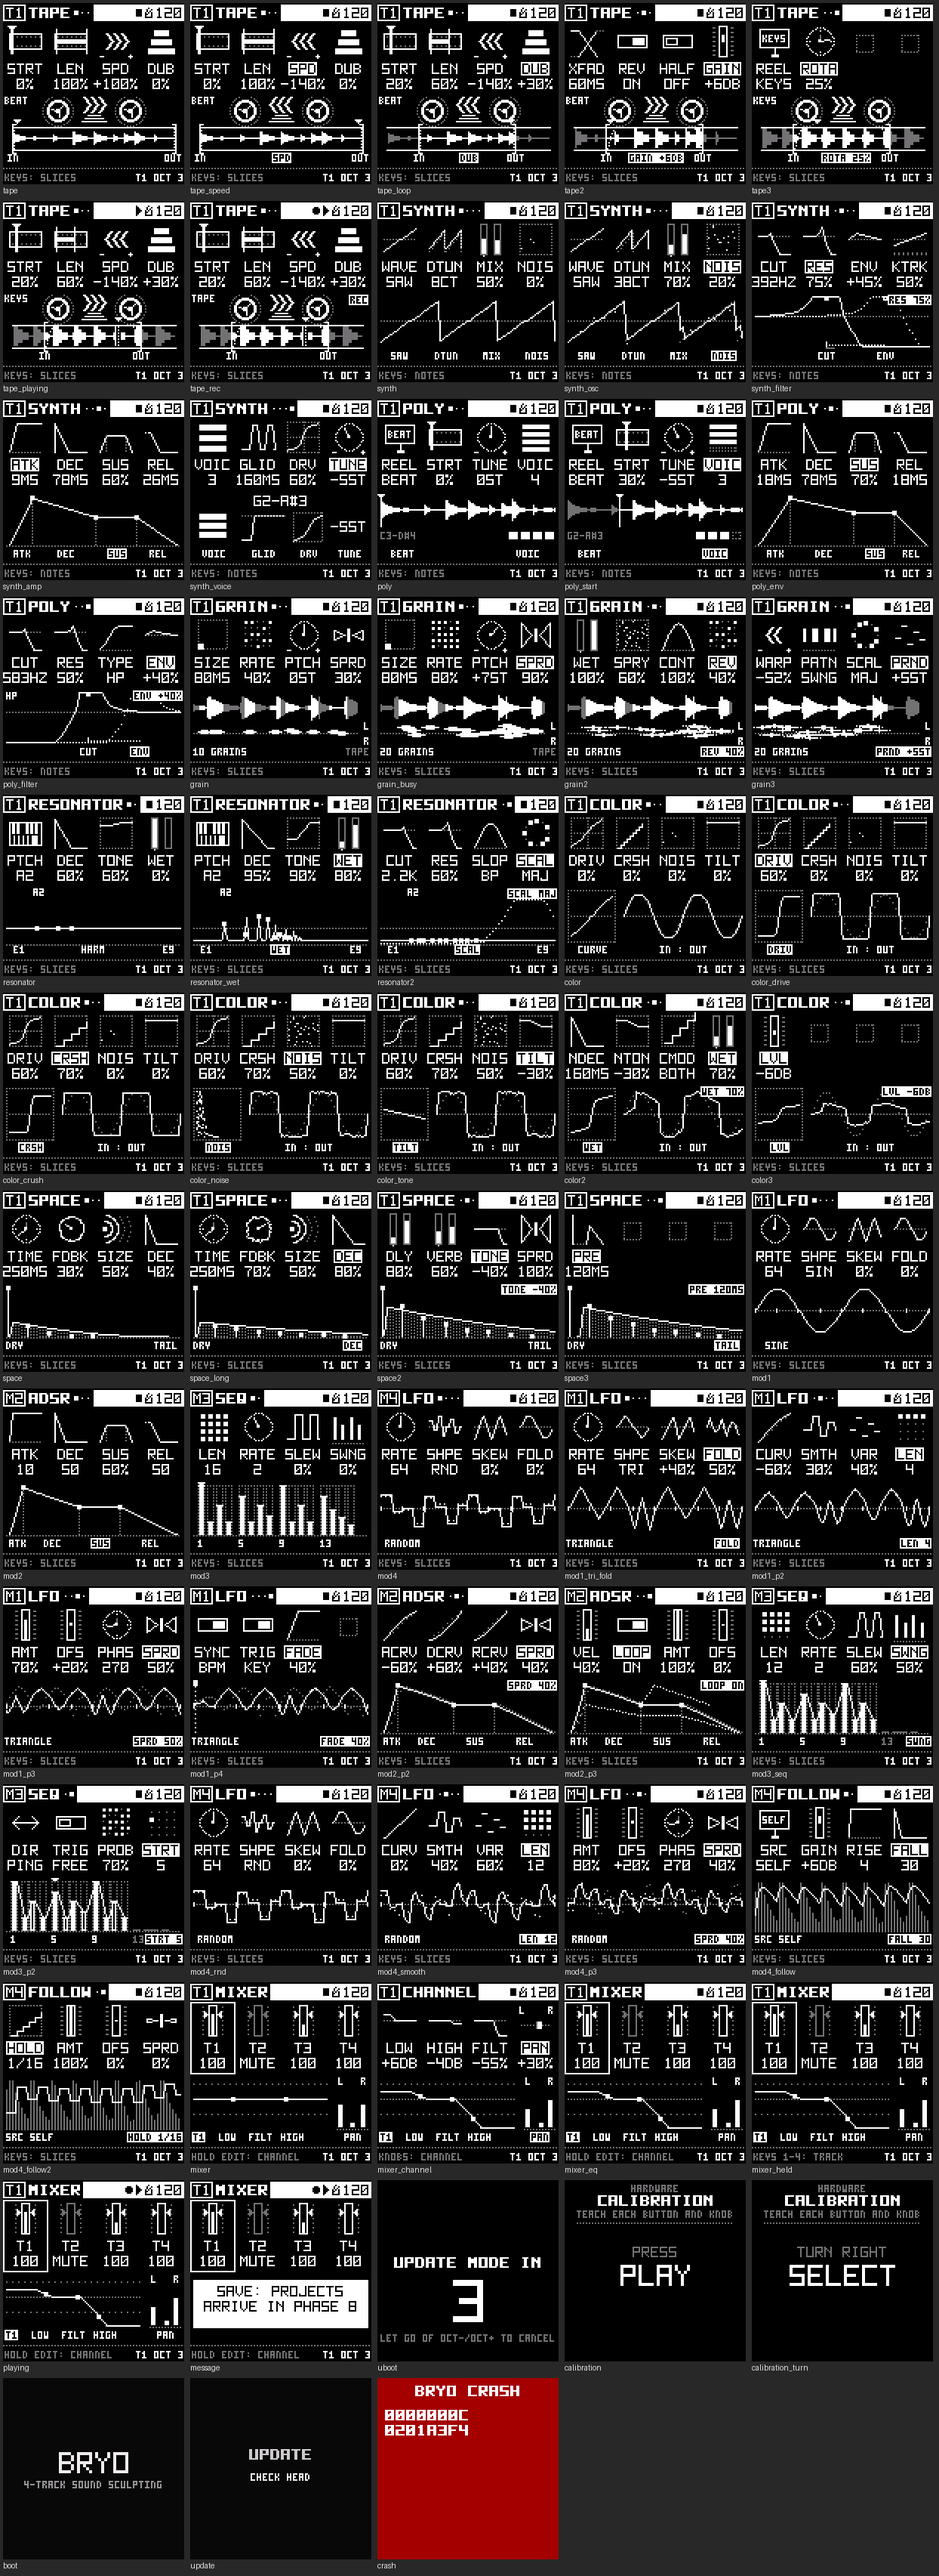
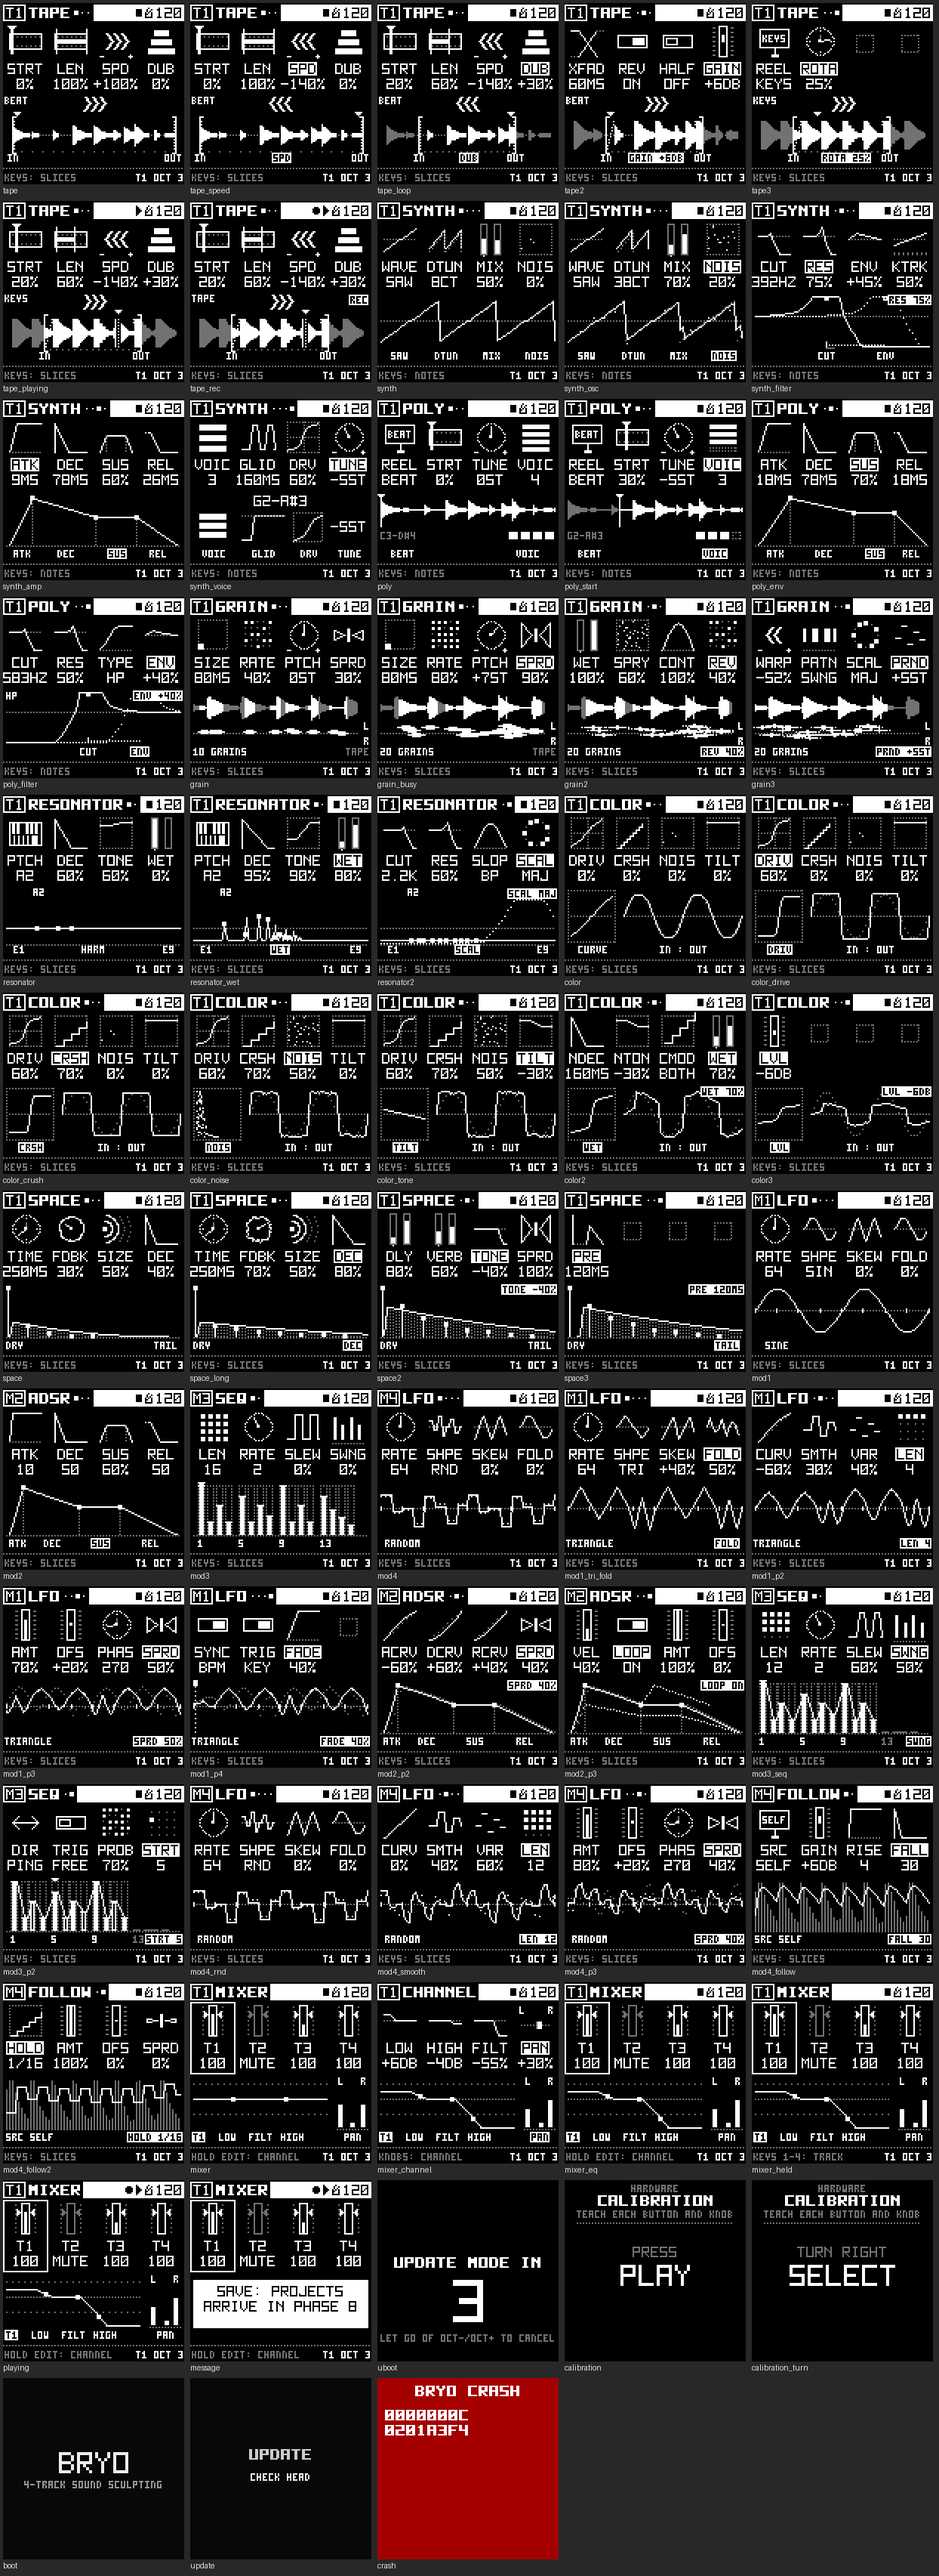
Bryo: TAPE's picture without the reels, the sound larger
The reels are gone; the sound takes their rows (about 70 % taller), each dot
column the loudest block under it, lit inside the loop window with its 16
slices ticked under it. Brackets, XFAD, playhead, ROTA's start, the name,
REC and SPD's chevrons stay where they were; DUB's layers left the picture
(the strip's pictogram shows it).

Claude-Session: https://claude.ai/code/session_011E3mkWDTWqtPtt4Lk7Lgg8

diff --git a/bryo/firmware/src/ui_viz.c b/bryo/firmware/src/ui_viz.c
@@ -9,10 +9,9 @@
  *
  *   SYNTH      per page: the oscillators' cycles, the filter's response, the envelope, the keys and voices
  *   POLY       per page: the sound with STRT and the keys' range, the envelope, the filter with its TYPE
- *   TAPE       a reel-to-reel, reels close over the middle: the run along the bottom is the whole tape with the
- *              sample on it, lit inside the loop window (STRT, LEN, bracketed); the playhead over it (stopped: where
- *              playing starts, moved by ROTA); between the reels SPD as chevrons and DUB as the layers kept (the old
- *              take under, the new on top)
+ *   TAPE       the whole tape's sound, large, lit inside the loop window (STRT, LEN, bracketed) with its 16 slices
+ *              ticked under it; the playhead over it (stopped: where playing starts, moved by ROTA); SPD as chevrons
+ *              at the top
  *   GRAIN      the sound in TAPE's loop window, lit where grains read it (SIZE, scaled by PITCH), and one solid
  *              block per grain (RATE, placed by PATN) in a stereo lane under it (SPRD, up = left, down = right)
  *   RESONATOR  the response over 8 octaves: peaks on PTCH's partials (harmonics, or a scale's chord tones; a node on
@@ -97,39 +96,35 @@ static void vz_poly(const int32_t *xs, const int32_t *ys, int32_t n, uint16_t c,
 }
 
 /* -------------------------------------------------------------- TAPE --- */
-/* a reel: its flange (dotted), the tape wound on it (solid), the hub and three spokes */
-static void vz_reel(int32_t cx, int32_t cy)
-{
-    int32_t k;
-    px_ring(cx, cy, 10, px_dim, 2);
-    px_ring(cx, cy, 7, px_ink, 1);
-    px_ring(cx, cy, 6, px_ink, 1);
-    px_box(cx - 1, cy - 1, 3, 3, px_ink);
-    for (k = 0; k < 3; k++)
-        px_line(px_px(cx, 2, 8 + k * 21), px_py(cy, 2, 8 + k * 21), px_px(cx, 4, 8 + k * 21), px_py(cy, 4, 8 + k * 21), px_ink, 1);
-}
-
 static void viz_tape(const int16_t *v, uint32_t f)
 {
-    /* A reel-to-reel, the reels close in over the middle the way a deck's are, and under them the tape's run: the
-     * whole of what the track plays (its tape or a reel, named at the top left), its sound drawn on it from the
-     * blocks' peaks: lit inside the loop window (STRT, LEN, bracketed), dim outside. The playhead is where the head
-     * is while it runs (a dotted line through the run), else where playing starts (the end when reversed); between
-     * the reels, SPD as chevrons and DUB as the layers kept; REC armed is tagged at the top right. */
-    int32_t r0 = 6, r1 = 114, rw = r1 - r0, top = 20, bot = 35, mid = 27, k, x;
-    int32_t x0 = r0 + v[0] * rw / 100, x1 = x0 + v[1] * rw / 100, keep = v[3] >= 0 ? 100 : 100 + v[3];
+    /* The whole of what the track plays (its tape or a reel, named at the top left), its sound drawn large from the
+     * blocks' peaks (each dot column the loudest block under it, so no hit falls between columns): lit inside the
+     * loop window (STRT, LEN, bracketed), dim outside, with the 16 slices the white keys play ticked under it. The
+     * playhead is where the head is while it runs (a dotted cut through the sound), else where playing starts
+     * (ROTA's point; the end when reversed); SPD as chevrons at the top; REC armed tagged at the top right. */
+    int32_t r0 = 6, r1 = 114, rw = r1 - r0, top = 15, bot = 35, mid = 25, amp = 9, k, x;
+    int32_t x0 = r0 + v[0] * rw / 100, x1 = x0 + v[1] * rw / 100;
     int32_t sp = v[2] * (v[5] ? -1 : 1) / (v[6] ? 2 : 1), gain = db_x1000(v[7]);   /* REV, HALF; GAIN */
     int32_t fw = 1 + v[4] * 8 / 100;                   /* XFAD (drawn wider than to scale, so it shows) */
+    tape_view_t tv;
+    uint32_t nb;
     if (x1 > r1)
         x1 = r1;
-    vz_reel(36, 9);
-    vz_reel(84, 9);
-    px_line(r0, top, r1, top, px_ink, 1);                             /* the run's edges */
-    px_line(r0, bot, r1, bot, px_ink, 1);
-    for (x = r0 + 1; x < r1; x++) {                                    /* the sample (phase 2: the take) */
-        int32_t a = clamp(tape_peak_at(sys.sel, (x - r0) * 1000 / rw) * 6 / 1000 * gain / 1000, 0, 6);   /* (clips) */
-        px_box(x, mid - a, 1, 2 * a + 1, x >= x0 && x <= x1 ? px_ink : px_dim);
+    tape_view(sys.sel, &tv);
+    nb = tv.len / TAPE_BLK;
+    px_line(r0, mid, r1, mid, px_dim, 2);                            /* the centre line */
+    for (x = r0; x <= r1 && nb; x++) {                                 /* the sample: each column's loudest block */
+        uint32_t b0 = (uint32_t)(x - r0) * nb / (uint32_t)(rw + 1), b1 = (uint32_t)(x - r0 + 1) * nb / (uint32_t)(rw + 1), b, pk = 0;
+        int32_t a;
+        for (b = b0; b <= b1 && b < nb; b++)
+            pk = tv.peak[b] > pk ? tv.peak[b] : pk;
+        a = clamp((int32_t)pk * amp * gain / (255 * 1000), 0, amp);   /* (GAIN: clips at the frame) */
+        if (a)
+            px_box(x, mid - a, 1, 2 * a + 1, x >= x0 && x <= x1 ? px_ink : px_dim);
     }
+    for (k = 1; k < 16; k++)                                           /* the slices, ticked under the window */
+        px_dot(x0 + (x1 - x0) * k / 16, bot + 1, px_dim);
     for (k = 0; k < 2; k++) {                                          /* the brackets, 2 dots wide when turned */
         int32_t bx = k ? x1 : x0, s = k ? -1 : 1, w = f == (uint32_t)k ? 2 : 1;
         px_box(k ? bx - w + 1 : bx, top - 2, w, bot - top + 5, px_ink);
@@ -140,12 +135,12 @@ static void viz_tape(const int16_t *v, uint32_t f)
         px_line(x0 + 1, bot - 1, x0 + fw, top + 1, px_ink, 2);
         px_line(x1 - fw, top + 1, x1 - 1, bot - 1, px_ink, 2);
     }
-    {   /* the playhead: a triangle over the run, where the head is (or where playing starts) */
+    {   /* the playhead: a triangle over the sound, where the head is (or where playing starts) */
         int32_t xr, hd = tape_head(sys.sel), px;
         xr = x0 + (x1 - x0) * v[9] / 100;              /* ROTATE: where playing starts in the window */
         px = hd >= 0 ? r0 + hd * rw / 1000 : sp < 0 ? (v[9] ? xr - 1 : x1 - 3) : (v[9] ? xr : x0 + 3);
         for (k = 0; k < 3; k++)
-            px_box(px - 2 + k, top - 5 + k, 5 - 2 * k, 1, px_ink);   /* (rows 15..17: under the reels' flanges) */
+            px_box(px - 2 + k, top - 5 + k, 5 - 2 * k, 1, px_ink);
         if (hd >= 0) {                                 /* running: a cut through the sound, and its edges */
             px_box(px - 1, top + 1, 3, bot - top - 1, px_bg);
             px_line(px, top + 1, px, bot - 1, px_ink, 2);
@@ -154,11 +149,7 @@ static void viz_tape(const int16_t *v, uint32_t f)
     px_text(1, 0, PXF_3, tape_name(sys.sel), px_ink);                /* what it plays */
     if ((sys.rec >> sys.sel) & 1u)
         px_tag(105, 0, PXF_3, "REC", px_ink, px_bg);
-    px_chevrons(60, 5, sp, px_ink);                                    /* SPD (with REV, HALF), between the reels */
-    for (k = 0; k < 3; k++) {                                          /* DUB: the old take, the new on top */
-        int on = k < 2 ? keep > k * 50 : v[3] < 100;
-        px_line(52 + k * 2, 16 - k * 2, 68 - k * 2, 16 - k * 2, on ? px_ink : px_dim, on ? 1 : 2);
-    }
+    px_chevrons(60, 4, sp, px_ink);                                    /* SPD (with REV, HALF) */
     vz_label(x0, "IN", f == 0u);
     if (x1 - x0 >= 22 || f == 1u)
         vz_label(x1, "OUT", f == 1u);
